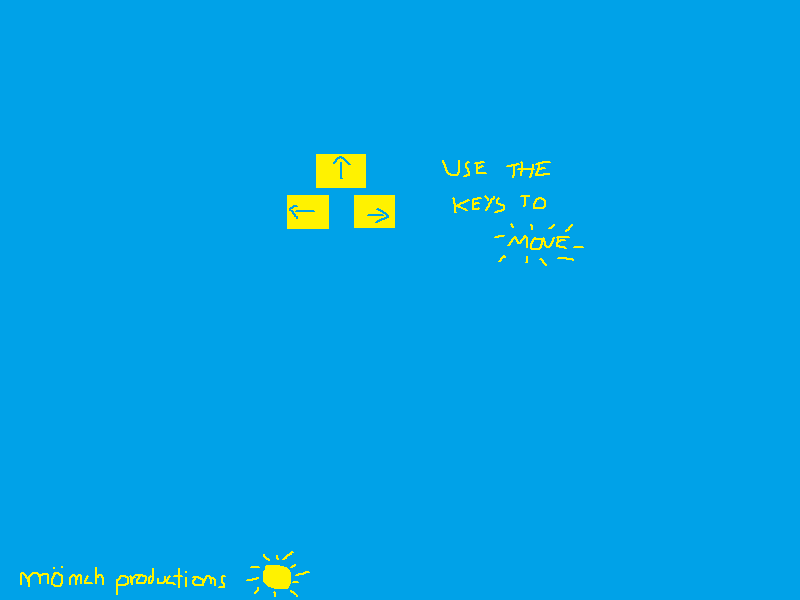
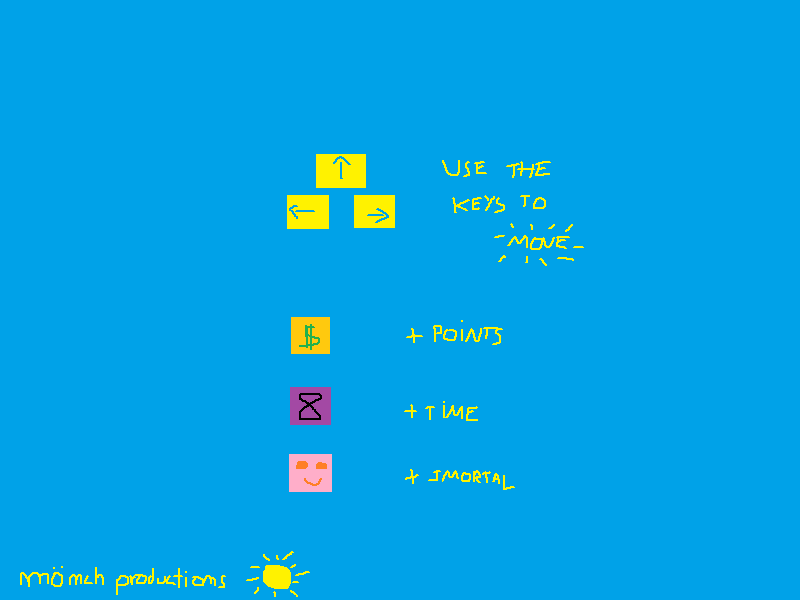
imortal commit
now there is a feature that makes the character imortal for a few seconds

diff --git a/scripts/cenas/cena-jogo.js b/scripts/cenas/cena-jogo.js
@@ -12,12 +12,14 @@ export default class CenaJogo extends Phaser.Scene {
         this.tempo;
         this.index_inimigo = 0;
         this.gerenciaLevel = 0;
+        this.personagemImortal = false;
 
         // aqui temos os possiveis grupos de colisoes
         this.grupoPlataformas;
         this.grupoTesouros;
         this.grupoTempos;
         this.grupoInimigos;
+        this.grupoImortal;
         this.plataformaFixa;
         this.plataformaMovimentaH;
         this.plataformaMovimentaV;
@@ -28,6 +30,7 @@ export default class CenaJogo extends Phaser.Scene {
         this.fimJogoTexto;
         this.textoLevel;
         this.levelGeralTexto;
+        this.imortalTexto;
     }
 
 
@@ -54,20 +57,31 @@ export default class CenaJogo extends Phaser.Scene {
 
     }
 
-    gerenciaPlataformas() {
-        if (this.gerenciaLevel % 2 == 1) {
-            let x_um = Math.random() * (700) + 100;
-            let x_dois = Math.random() * (700) + 100;
-            this.grupoPlataformas.create(x_um, 300, 'plataforma');
-            this.grupoPlataformas.create(x_dois, 300, 'plataforma');
-        }
-        else {
-            this.grupoPlataformas.children.iterate(function (child) {
-                child.disableBody()
-                child.setVisible(false)
-            });
-        }
+    gerenciaItemImortal(jogador, item) {
+        item.disableBody(true, true);
+        this.personagemImortal = true;
+        this.imortalTexto = this.add.text(jogador.x, jogador.y - 20, 'I M O R T A L', { fontSize: '12px ', fill: '#ff1493', fontweight: 'bold' });
 
+        this.time.delayedCall(7000, () => {
+            this.personagemImortal = false;
+            this.imortalTexto.setText(' ');
+        })
+
+
+        if (this.grupoImortal.countActive(true) === 0) {
+
+            this.time.addEvent({
+                delay: Math.random() * (10000) + 5000,
+                callback: () => {
+                    this.grupoImortal.children.iterate(function (child) {
+                        child.x = Math.random() * (500) + 200
+                        child.enableBody(true, child.x, 0, true, true);
+
+                    });
+                },
+                loop: false
+            })
+        }
 
     }
 
@@ -105,8 +119,23 @@ export default class CenaJogo extends Phaser.Scene {
 
     }
 
+    // aqui gerenciamos as plataformas de forma dinamica
+    gerenciaPlataformas() {
+        if (this.gerenciaLevel % 2 == 1) {
+            let x_um = Math.random() * (700) + 100;
+            let x_dois = Math.random() * (700) + 100;
+            this.grupoPlataformas.create(x_um, 300, 'plataforma');
+            this.grupoPlataformas.create(x_dois, 300, 'plataforma');
+        }
+        else {
+            this.grupoPlataformas.children.iterate(function (child) {
+                child.disableBody()
+                child.setVisible(false)
+            });
+        }
 
 
+    }
 
 
     // aqui iremos gerenciar a atualizacao de levels
@@ -137,35 +166,36 @@ export default class CenaJogo extends Phaser.Scene {
 
     // aqui iremos gerenciar o game over
     gerenciaGameOver(jogador) {
-        this.physics.pause();
-        jogador.anims.stop()
-        this.fimJogo = true;
+        if (this.personagemImortal == false) {
+            this.physics.pause();
+            jogador.anims.stop()
+            this.fimJogo = true;
 
 
-        this.fimJogoTexto = this.add.text(400, 230, 'Game Over', { fontSize: '84px', fill: '#f00', fontweight: 'bold' });
-        this.fimJogoTexto.setOrigin(0.5);
-        this.fimJogoTextosetVisible = true;
-        const imagemRestartButton = this.add.image(700, 570, 'restart_button').setDepth(1)
-        imagemRestartButton.setVisible(true)
-        const imagemHover = this.add.image(100, 100, 'hover').setDepth(1)
-        imagemHover.setVisible(false)
+            this.fimJogoTexto = this.add.text(400, 230, 'Game Over', { fontSize: '84px', fill: '#f00', fontweight: 'bold' });
+            this.fimJogoTexto.setOrigin(0.5);
+            this.fimJogoTextosetVisible = true;
+            const imagemRestartButton = this.add.image(700, 570, 'restart_button').setDepth(1)
+            imagemRestartButton.setVisible(true)
+            const imagemHover = this.add.image(100, 100, 'hover').setDepth(1)
+            imagemHover.setVisible(false)
 
-        imagemRestartButton.setInteractive()
+            imagemRestartButton.setInteractive()
 
-        imagemRestartButton.on('pointerover', () => {
-            imagemHover.setVisible(true);
-            imagemHover.x = imagemRestartButton.x - imagemRestartButton.width;
-            imagemHover.y = imagemRestartButton.y;
-        })
-        imagemRestartButton.on('pointerout', () => {
-            imagemHover.setVisible(false);
-        })
-        imagemRestartButton.on('pointerdown', () => {
-            this.scene.start('CenaMenu')
-            this.gerenciaIniciaJogo()
-            imagemHover.setVisible(true)
-        })
-
+            imagemRestartButton.on('pointerover', () => {
+                imagemHover.setVisible(true);
+                imagemHover.x = imagemRestartButton.x - imagemRestartButton.width;
+                imagemHover.y = imagemRestartButton.y;
+            })
+            imagemRestartButton.on('pointerout', () => {
+                imagemHover.setVisible(false);
+            })
+            imagemRestartButton.on('pointerdown', () => {
+                this.scene.start('CenaMenu')
+                this.gerenciaIniciaJogo()
+                imagemHover.setVisible(true)
+            })
+        }
     }
 
     // aqui adicionamos as plataformas dinamicamente de acordo com o level
@@ -204,6 +234,12 @@ export default class CenaJogo extends Phaser.Scene {
             setXY: { x: 150, y: 0, stepX: 150 }
         })
 
+        this.grupoImortal = this.physics.add.group({
+            key: 'imortal',
+            repeat: 0,
+            setXY: { x: 350, y: 0, stepX: 150 }
+        })
+
         this.grupoTesouros.children.iterate(function (child) {
             child.setBounceY(Phaser.Math.FloatBetween(0.4, 0.8));
         })
@@ -221,24 +257,30 @@ export default class CenaJogo extends Phaser.Scene {
         this.physics.add.collider(this.grupoTesouros, this.plataformaFixa);
         this.physics.add.collider(this.grupoTempos, this.plataformaFixa);
         this.physics.add.collider(this.grupoInimigos, this.plataformaFixa);
+        this.physics.add.collider(this.grupoImortal, this.plataformaFixa);
 
         this.physics.add.collider(this.jogador.sprite, this.plataformaMovimentaH);
         this.physics.add.collider(this.grupoTesouros, this.plataformaMovimentaH)
         this.physics.add.collider(this.grupoTempos, this.plataformaMovimentaH)
         this.physics.add.collider(this.grupoInimigos, this.plataformaMovimentaH);
+        this.physics.add.collider(this.grupoImortal, this.plataformaMovimentaH);
 
         this.physics.add.collider(this.jogador.sprite, this.plataformaMovimentaV);
         this.physics.add.collider(this.grupoTesouros, this.plataformaMovimentaV)
         this.physics.add.collider(this.grupoTempos, this.plataformaMovimentaV)
         this.physics.add.collider(this.grupoInimigos, this.plataformaMovimentaV);
+        this.physics.add.collider(this.grupoImortal, this.plataformaMovimentaV);
 
         this.physics.add.collider(this.jogador.sprite, this.grupoPlataformas);
         this.physics.add.collider(this.grupoTesouros, this.grupoPlataformas);
         this.physics.add.collider(this.grupoTempos, this.grupoPlataformas);
         this.physics.add.collider(this.grupoInimigos, this.grupoPlataformas);
+        this.physics.add.collider(this.grupoImortal, this.grupoPlataformas);
 
         this.physics.add.overlap(this.jogador.sprite, this.grupoTesouros, this.gerenciaItemPontuacao, null, this)
         this.physics.add.overlap(this.jogador.sprite, this.grupoTempos, this.gerenciaItemTempo, null, this)
+        this.physics.add.overlap(this.jogador.sprite, this.grupoImortal, this.gerenciaItemImortal, null, this)
+
         this.physics.add.collider(this.jogador.sprite, this.grupoInimigos, this.gerenciaGameOver, null, this);
 
         this.teclas = this.input.keyboard.createCursorKeys();
@@ -304,8 +346,12 @@ export default class CenaJogo extends Phaser.Scene {
     update() {
         const jogador = this.jogador.sprite;
 
+        if (this.personagemImortal == true) {
+            this.imortalTexto.x = jogador.x - 50
+            this.imortalTexto.y = jogador.y - 40
+        }
 
-        if (this.tempo == 0) {
+        if (this.tempo <= 0) {
             this.gerenciaGameOver(jogador)
         }
 

diff --git a/scripts/cenas/cena-carregamento.js b/scripts/cenas/cena-carregamento.js
@@ -55,6 +55,7 @@ export default class CenaCarregamento extends Phaser.Scene {
         // aqui temos os assets de itens
         this.load.image('tesouro', 'imgs/gold.png')
         this.load.image('tempo', 'imgs/tempo.png')
+        this.load.image('imortal', 'imgs/imortal.png')
 
     }
 
